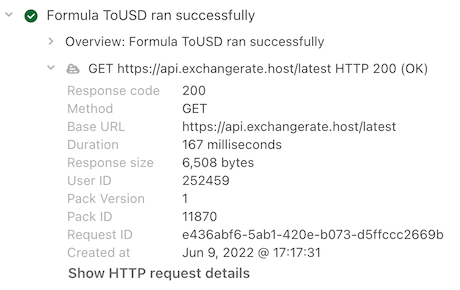
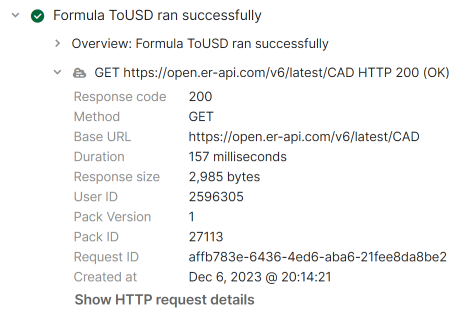
Replace API in fetcher tutorial

Changed region(s): [[0.0913, 0.1862, 0.9739, 0.9621], [0.0, 0.031, 0.7304, 0.1862]]

diff --git a/docs/tutorials/build/fetcher.md b/docs/tutorials/build/fetcher.md
@@ -24,35 +24,30 @@ Before starting this tutorial, make sure you have completed:
 
 When building a Pack around data from an external API, it's usually best to first select the API and examine its capabilities and requirements, as those may have a large influence on the design of your formula.
 
-For this Pack we'll be using the API provided by [exchangerate.host][exchangerate_home], which is free to use and doesn't require any keys or credentials. As shown in their documentation, you can get the latest exchange rates using the following URL:
+For this Pack we'll be using the API provided by [ExchangeRate-API][exchangerate_home], which has a free plan that doesn't require any keys or credentials. As shown in their documentation, you can get the latest exchange rates using the following URL:
 
 ```
-https://api.exchangerate.host/latest?base=USD
-```
-
-By default this returns the exchange rate for a single Euro, but we can change the starting currency and amount using URL query parameters:
-
-```
-https://api.exchangerate.host/latest?base=CAD&amount=100
+https://open.er-api.com/v6/latest/CAD
 ```
 
 The endpoint returns a JSON response, which includes the conversion rate for all of the currencies it supports:
 
 ```js
 {
-  "success": true,
-  "base": "CAD",
-  "date": "2022-06-09",
+  "result": "success",
+  "base_code": "CAD",
+  "time_last_update_utc": "Wed, 06 Dec 2023 00:02:31 +0000",
+  // ...
   "rates": {
-    "AED": 292.51651,
-    "AFN": 7076.688907,
+    "AED": 2.704071,
+    "AFN": 52.369208,
     // ...
-    "USD": 79.659392,
+    "USD": 0.736528,
   }
 }
 ```
 
-Here we see that 100 Canadian dollars converts to 79 US dollars (at the time this request was made.) This will provide us the information we need to build our formula.
+Here we see that one Canadian dollar converts to about 0.74 US dollars (at the time this request was made.) This will provide us the information we need to build our formula.
 
 
 ## :material-ruler-square-compass: Design the formula
@@ -123,21 +118,15 @@ Now that we've got our API selected and formula designed we're ready to dive int
 
     With the formula scaffold in place, let's focus in on the `execute` function.
 
-    First we'll need to build the URL to send the request to. While it's possible to construct it manually, the utility function `coda.withQueryParameters` is easier to use and handles all of the encoding and edge cases.
-
-    The first parameter to `coda.withQueryParameters` is the base URL, and the second is a set of key-value pairs to be placed into the query string. This code will return a URL ending with `?base=<from>&amount=<amount>`.
+    First we'll need to build the URL to send the request to. We do this by concatenating the base URL with the currency code the user supplied.
 
     </div>
     <div markdown>
 
-    ```{.ts hl_lines="2-7"}
+    ```{.ts hl_lines="2-3"}
     execute: async function ([amount, from], context) {
-      let baseUrl =
-          "https://api.exchangerate.host/latest";
-      let url = coda.withQueryParams(baseUrl, {
-        base: from,
-        amount: amount,
-      });
+      let url =
+        "https://open.er-api.com/v6/latest/" + from;
     },
     ```
 
@@ -161,14 +150,10 @@ Now that we've got our API selected and formula designed we're ready to dive int
     </div>
     <div markdown>
 
-    ```{.ts hl_lines="8-11"}
+    ```{.ts hl_lines="4-7"}
     execute: async function ([amount, from], context) {
-      let baseUrl =
-          "https://api.exchangerate.host/latest";
-      let url = coda.withQueryParams(baseUrl, {
-        base: from,
-        amount: amount,
-      });
+      let url =
+        "https://open.er-api.com/v6/latest/" + from;
       let response = await context.fetcher.fetch({
         method: "GET",
         url: url
@@ -187,25 +172,23 @@ Now that we've got our API selected and formula designed we're ready to dive int
 
     The fetcher response includes lots of information about what the API sent back, but in this case we're interested in the `body` only. When Coda detects that the response is JSON it will automatically parse it for you.
 
-    Referring back to the raw API response we saw earlier, the information you need is in the `rates` sub-object under the key `USD`. Since the response is already parsed you can "dot" into that value and return it.
+    Referring back to the raw API response we saw earlier, the information you need is in the `rates` sub-object under the key `USD`. Since the response is already parsed you can "dot" into that value and use it.
+
+    The API returns the conversion rate for a single unit of currency, so before returning it you'll need to multiply it by the amount the user specified.
 
     </div>
     <div markdown>
 
-    ```{.ts hl_lines="12-13"}
+    ```{.ts hl_lines="8-9"}
     execute: async function ([amount, from], context) {
-      let baseUrl =
-          "https://api.exchangerate.host/latest";
-      let url = coda.withQueryParams(baseUrl, {
-        base: from,
-        amount: amount,
-      });
+      let url =
+        "https://open.er-api.com/v6/latest/" + from;
       let response = await context.fetcher.fetch({
         method: "GET",
         url: url
       });
       let json = response.body;
-      return json.rates.USD;
+      return json.rates.USD * amount;
     },
     ```
 
@@ -222,7 +205,7 @@ Now that we've got our API selected and formula designed we're ready to dive int
 
     The function `pack.addNetworkDomain` adds a domain to the Pack's declaration. This line can be added anywhere in your code after the boilerplate, but it's usually done at the top of the file.
 
-    Your Pack is allowed to access any sub-domains off of this domain, so it's best to select the root domain of the URLs you are making requests to. In this case, use the root domain `exchangerate.host` instead of narrower API-specific domain of `api.exchangerate.host`.
+    Your Pack is allowed to access any sub-domains off of this domain, so it's best to select the root domain of the URLs you are making requests to. In this case, use the root domain `er-api.com` instead of narrower API-specific domain of `open.er-api.com`.
 
     </div>
     <div markdown>
@@ -231,7 +214,7 @@ Now that we've got our API selected and formula designed we're ready to dive int
     import * as coda from "@codahq/packs-sdk";
     export const pack = coda.newPack();
 
-    pack.addNetworkDomain("exchangerate.host");
+    pack.addNetworkDomain("er-api.com");
 
     pack.addFormula({
       // ...
@@ -270,7 +253,7 @@ If everything is working correctly you should get back the currency value conver
     import * as coda from "@codahq/packs-sdk";
     export const pack = coda.newPack();
 
-    pack.addNetworkDomain("exchangerate.host");
+    pack.addNetworkDomain("er-api.com");
 
     pack.addFormula({
       name: "ToUSD",
@@ -290,18 +273,14 @@ If everything is working correctly you should get back the currency value conver
       resultType: coda.ValueType.Number,
       codaType: coda.ValueHintType.Currency,
       execute: async function ([amount, from], context) {
-        let baseUrl =
-            "https://api.exchangerate.host/latest";
-        let url = coda.withQueryParams(baseUrl, {
-          base: from,
-          amount: amount,
-        });
+        let url =
+          "https://open.er-api.com/v6/latest/" + from;
         let response = await context.fetcher.fetch({
           method: "GET",
           url: url
         });
         let json = response.body;
-        return json.rates.USD;
+        return json.rates.USD * amount;
       },
     });
     ```
@@ -373,7 +352,7 @@ Now that you have an understanding of how to call an external API, here are some
 [quickstart_web]: ../get-started/web.md
 [quickstart_cli]: ../get-started/cli.md
 [tutorial_formula]: formula.md
-[exchangerate_home]: https://exchangerate.host/
+[exchangerate_home]: https://www.exchangerate-api.com/
 [fetcher]: ../../guides/basics/fetcher.md
 [samples_fetcher]: ../../samples/topic/fetcher.md
 [pmt]: ../../guides/development/pack-maker-tools.md
